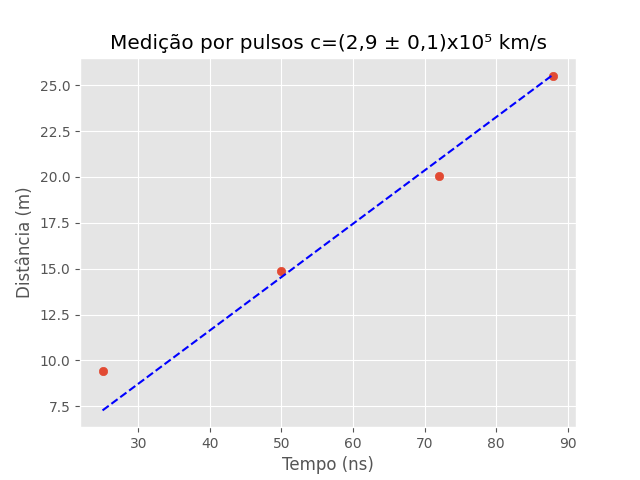
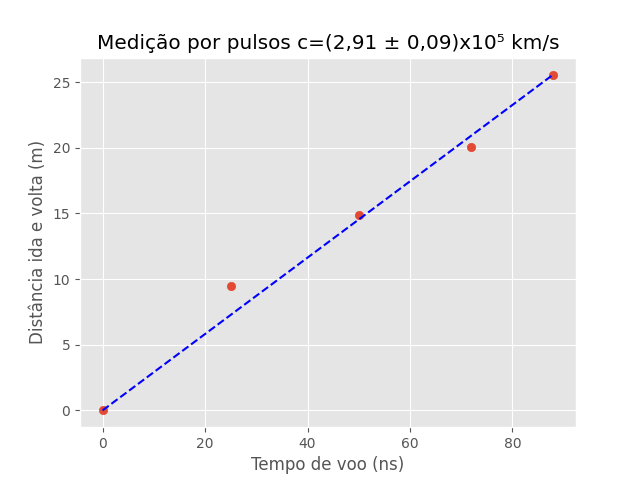
fix: insane float error bug  Júpiter

diff --git a/velocidade_da_luz/pulsos/pulsos.py b/velocidade_da_luz/pulsos/pulsos.py
@@ -4,8 +4,8 @@ import matplotlib.pyplot as plt
 from scipy.optimize import curve_fit
 import numpy as np 
 
-distancias=2*lab.arrayM([472,743,1003,1276],"cm",5)
-tempos=lab.arrayM([25,50,72,88],"ns",1)
+distancias=2*lab.arrayM([0,472,743,1003,1276],"cm",5)
+tempos=lab.arrayM([0,25,50,72,88],"ns",1)
 
 unidade_distancia="m"
 unidade_tempo="ns"
@@ -18,8 +18,8 @@ a,pcov=curve_fit(lambda x,a: a*x,
 c=Medida(a[0],f"{unidade_distancia}/{unidade_tempo}",np.sqrt(pcov[0][0]))
 x_values=lab.linspaceM(min(lab.nominais(tempos,unidade_tempo)),
                      max(lab.nominais(tempos,unidade_tempo)),100,unidade_tempo,0)
-axis.set_xlabel(f"Tempo ({unidade_tempo})")
-axis.set_ylabel(f"Distância ({unidade_distancia})")
+axis.set_xlabel(f"Tempo de voo ({unidade_tempo})")
+axis.set_ylabel(f"Distância ida e volta ({unidade_distancia})")
 axis.set_title(f"Medição por pulsos c={c:km/s}")
 axis.scatter(lab.nominais(tempos,unidade_tempo),
              lab.nominais(distancias,unidade_distancia),
